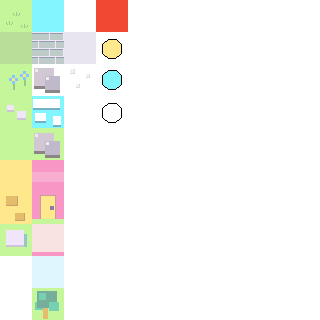
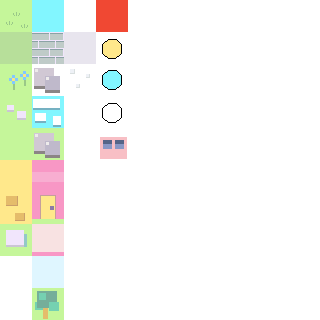
Ending condition!

Changed region(s): [[0.3125, 0.4062, 0.4062, 0.5]]

diff --git a/src/enemy.ts b/src/enemy.ts
@@ -480,3 +480,73 @@ class WaterGem extends PIXI.Sprite implements Updatable {
     this.parent.removeChild(this);
   }
 }
+
+class FinalThingy extends PIXI.Sprite implements Updatable {
+  activeMode: Mode = "Micro";
+  z     = 1000;
+  speed = 5;
+  state: State;
+
+  constructor(state: State) {
+    super();
+
+    this.state = state;
+
+    state.add(this);
+
+    this.texture = TextureCache.GetCachedSpritesheetTexture(
+      "micro", 3, 4).texture;
+  }
+
+  update(state: State): void {
+    const coin = new Rect({ x: this.x, y: this.y, w: 32, h: 32 });
+    const player = new Rect({ x: this.state.playersMapX, y: this.state.playersMapY, w: 32, h: 32 });
+
+    if (coin.intersects(player)) {
+      state.addMessage({
+        type: "warning",
+        msg: `This hastily-drawn object has two slots for gems.`,
+      });
+
+      if (this.state.hasWaterKey) {
+        state.addMessage({
+          type: "warning",
+          msg: `You place your water gem in one of the slots.`,
+        });
+      } else {
+        state.addMessage({
+          type: "warning",
+          msg: `You leave one of the slots empty.`,
+        });
+      }
+
+      if (this.state.hasSnowKey) {
+        state.addMessage({
+          type: "warning",
+          msg: `You place your snow gem in one of the slots.`,
+        });
+      } else {
+        state.addMessage({
+          type: "warning",
+          msg: `You leave one of the slots empty.`,
+        });
+      }
+
+      if (this.state.hasSnowKey && this.state.hasWaterKey) {
+        state.addMessage({
+          type: "warning",
+          msg: `
+          A light comes down from the heavens, the angels sing in choir, and God itself gives you a high five!!!
+          
+          You win! (But you can keep playing, if you'd like!)
+          `,
+        });
+      }
+    }
+  }
+
+  remove(): void {
+    this.state.remove(this);
+    this.parent.removeChild(this);
+  }
+}

diff --git a/src/microworld.ts b/src/microworld.ts
@@ -304,7 +304,7 @@ class MicroWorld extends PIXI.Graphics implements Updatable {
     this.checkShouldAddEnemies(state);
     this.removeBullets(state);
 
-    const gems = state.updaters.filter(x => (x instanceof SnowGem) || (x instanceof WaterGem)) as (SnowGem | WaterGem)[];
+    const gems = state.updaters.filter(x => (x instanceof SnowGem) || (x instanceof WaterGem) || (x instanceof FinalThingy)) as (SnowGem | WaterGem | FinalThingy)[];
 
     for (const g of gems) {
       g.remove();
@@ -321,6 +321,15 @@ class MicroWorld extends PIXI.Graphics implements Updatable {
 
     if (variant === "watertemple" && !state.hasWaterKey) {
       const g = new WaterGem(state);
+
+      this.addChild(g);
+
+      g.x = Constants.MICRO.MAP_WIDTH / 2 - 16;
+      g.y = Constants.MICRO.MAP_WIDTH / 2 - 16;
+    }
+
+    if (variant === "finaltemple") {
+      const g = new FinalThingy(state);
 
       this.addChild(g);
 

diff --git a/src/state.ts b/src/state.ts
@@ -98,8 +98,16 @@ class State {
     }
 
     if (Constants.DEBUG.DEBUG_WATER_TEMPLE) {
-      this.playersWorldX = this.map.world.getIceSpecial().xIndex + 1;
-      this.playersWorldY = this.map.world.getIceSpecial().yIndex + 1;
+      this.playersWorldX = this.map.world.getWaterSpecial().xIndex + 1;
+      this.playersWorldY = this.map.world.getWaterSpecial().yIndex + 1;
+    }
+
+    if (Constants.DEBUG.DEBUG_FINAL_TEMPLE) {
+      this.hasWaterKey = true;
+      this.hasSnowKey  = true;
+
+      this.playersWorldX = this.map.world.getEndCell().xIndex + 1;
+      this.playersWorldY = this.map.world.getEndCell().yIndex + 1;
     }
 
     this.macroCamera.centerX = this.playersWorldX * Constants.MACRO.TILE_WIDTH;

diff --git a/src/world.ts b/src/world.ts
@@ -587,6 +587,11 @@ class World extends PIXI.Graphics implements Updatable {
   }
 
   getCellAt(x: number, y: number) {
+    if (x >= 33) { console.log('i should fix this.'); x = 32; }
+    if (y >= 33) { console.log('i should fix this.'); y = 32; }
+    if (x < 0)   { console.log('i should fix this.'); x = 0; }
+    if (y < 0)   { console.log('i should fix this.'); y = 0; }
+
     return this.map[x][y];
   }
 

diff --git a/src/constants.ts b/src/constants.ts
@@ -10,6 +10,7 @@ const Constants = {
     WALK_ON_WATER     : true,
     DEBUG_ICE_TEMPLE  : false,
     DEBUG_WATER_TEMPLE: false,
+    DEBUG_FINAL_TEMPLE: false,
   },
 
   EASY_MODE: true,
